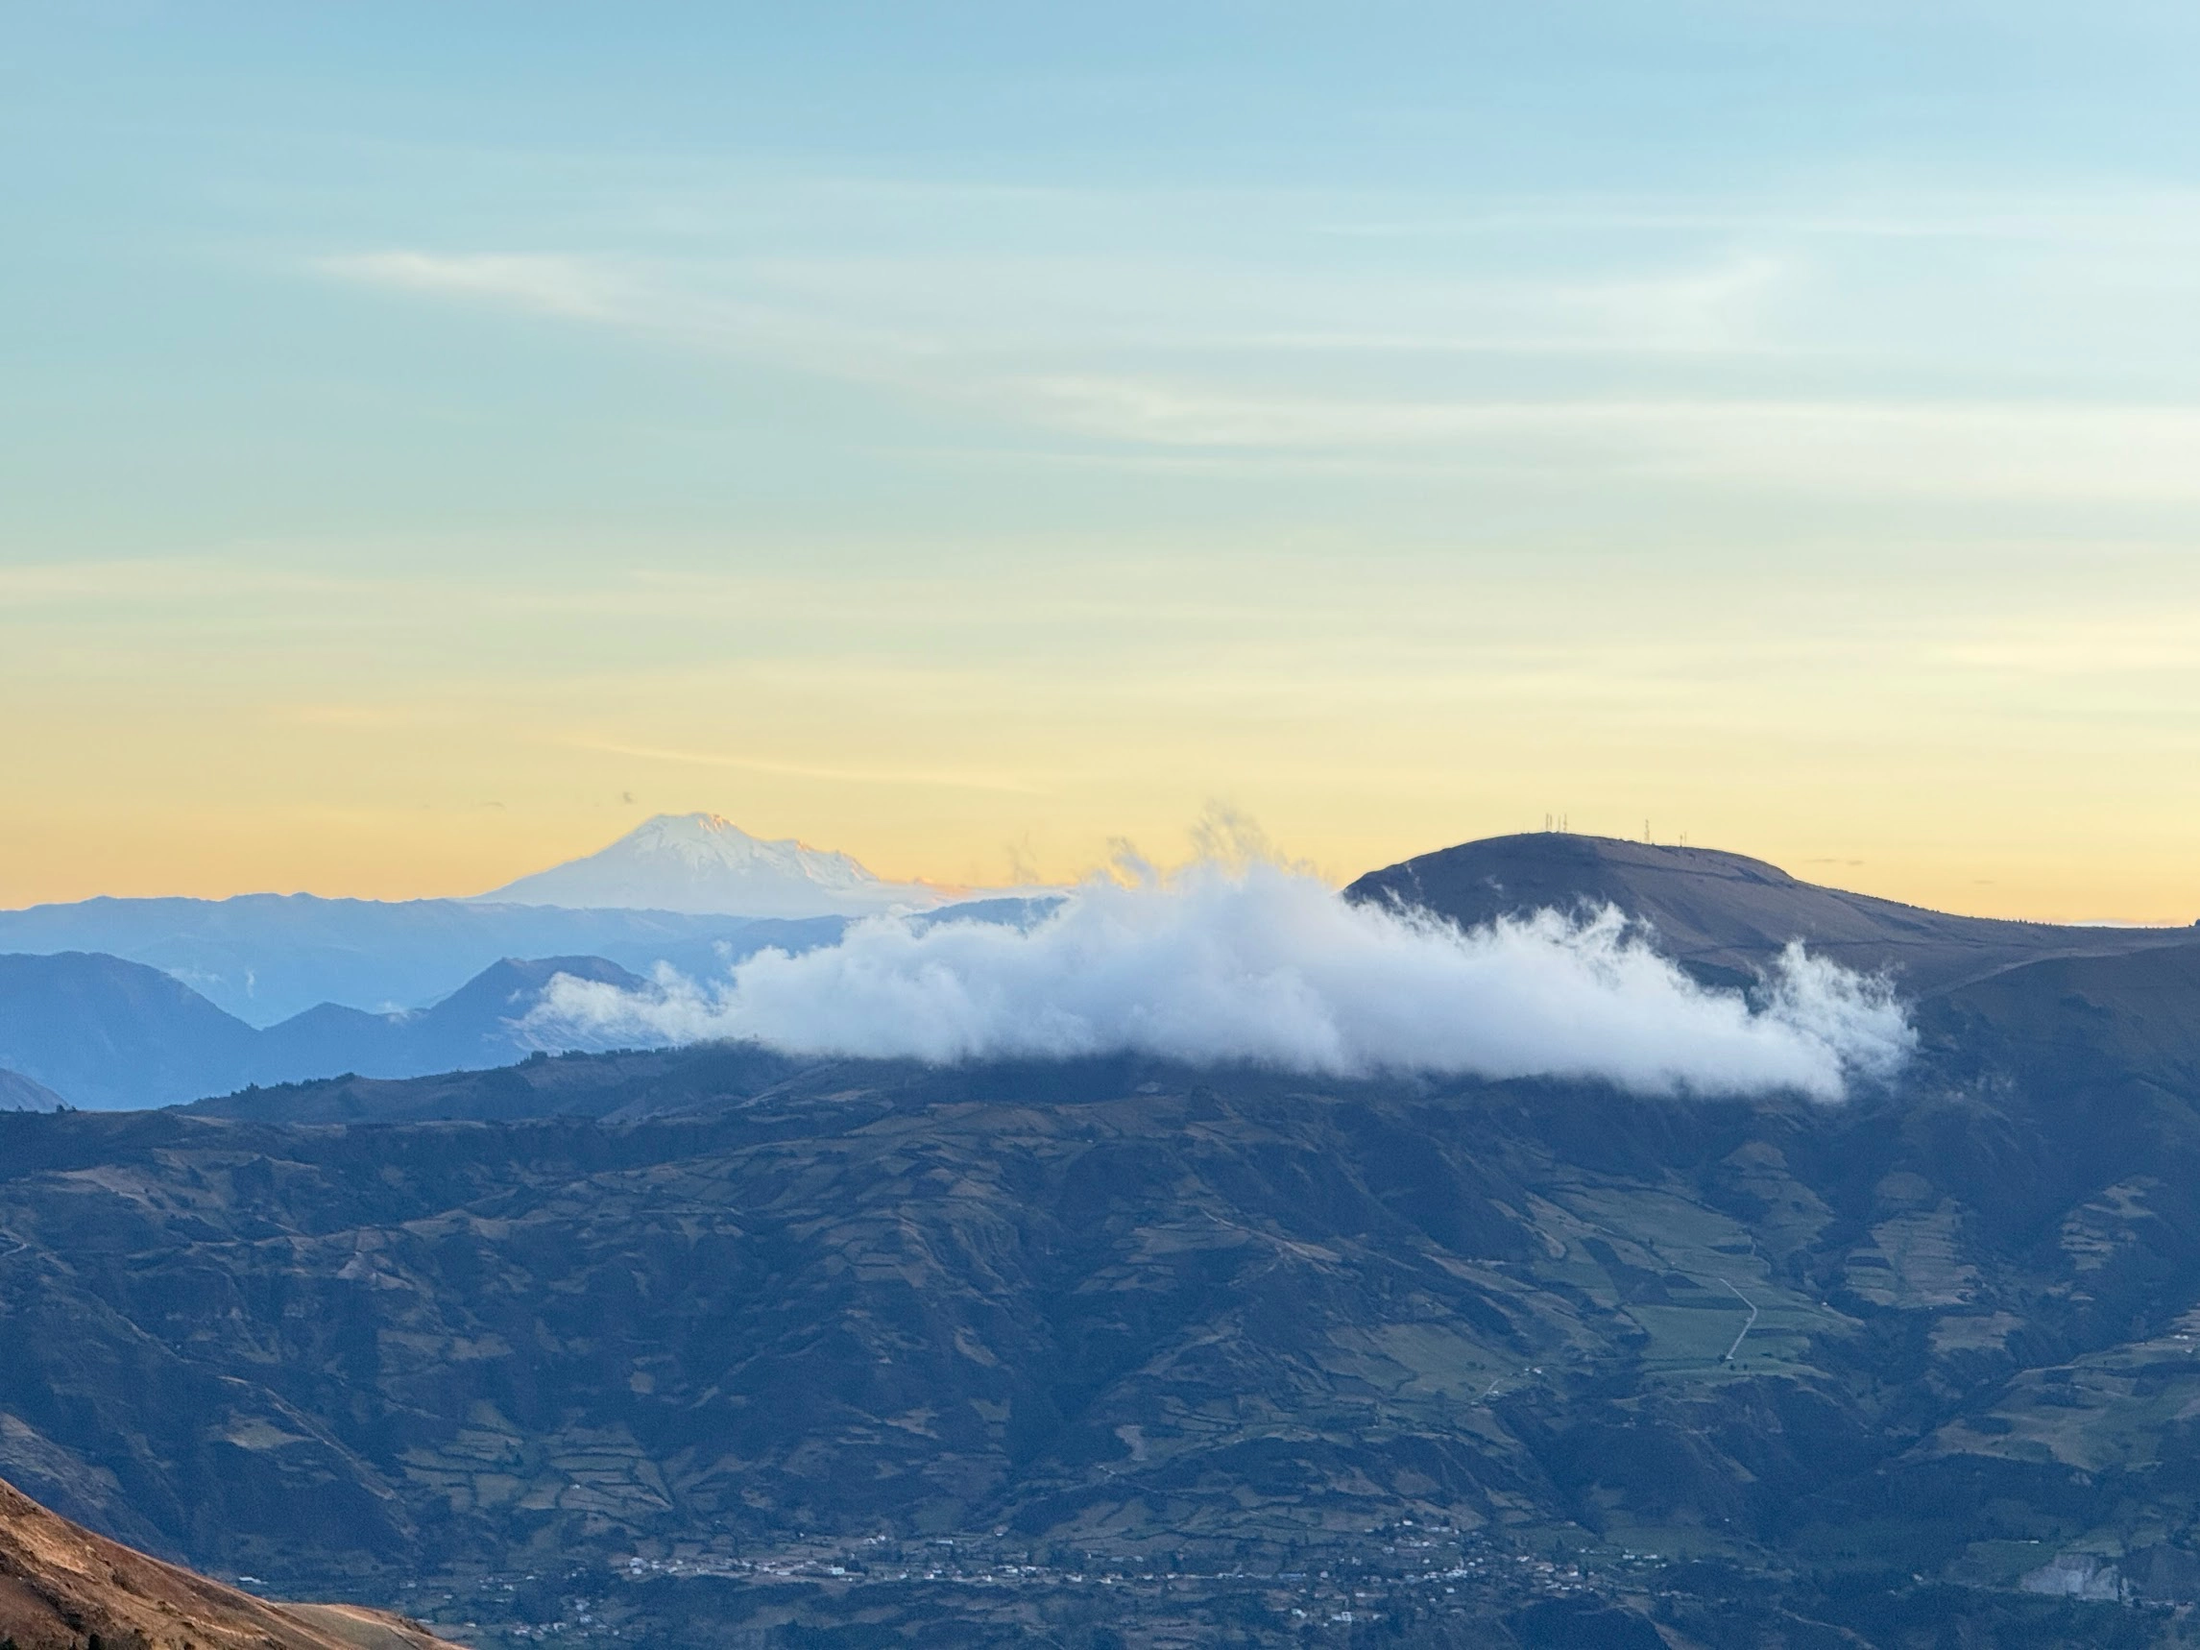
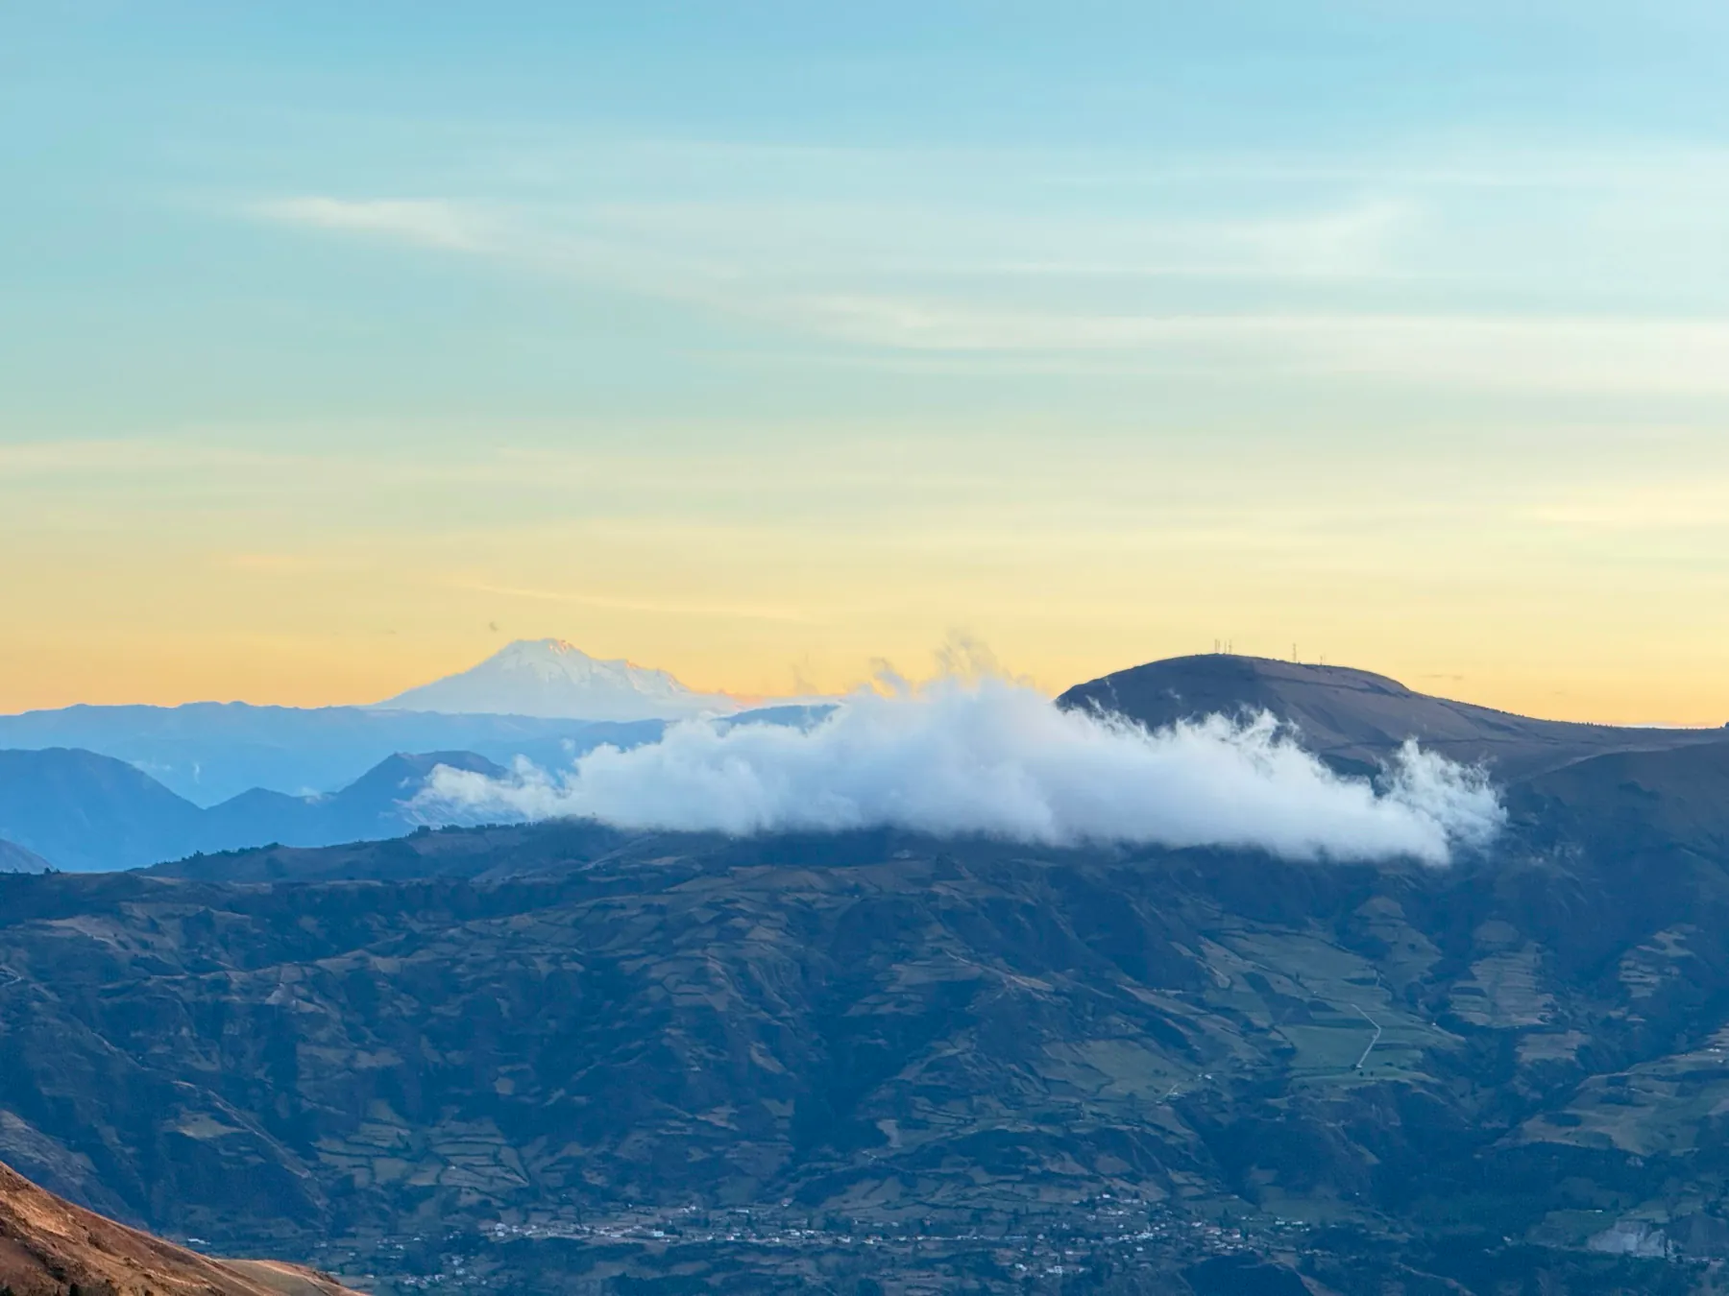
agg en noticias y optimizacion de fotos

diff --git a/sitio/style.css b/sitio/style.css
@@ -296,6 +296,15 @@ ul { margin: 0; padding: 0; list-style: none; }
 }
 #inicio .split .media-tall span { display: none; }
 
+/* Fotos de "Noticias y redes sociales" (Inicio) */
+#inicio .news-grid .news-card:nth-of-type(1) .media-sm {
+  background: url("img/monitoreo-agua.webp") center / cover no-repeat;
+}
+#inicio .news-grid .news-card:nth-of-type(2) .media-sm {
+  background: url("img/equipo-de-conservacion.webp") center / cover no-repeat;
+}
+#inicio .news-grid .media-sm span { display: none; }
+
 .feature-list { display: flex; flex-direction: column; gap: 12px; }
 .feature-list li { display: flex; align-items: center; gap: 12px; font-size: 14.5px; font-weight: 600; }
 .feature-icon {
